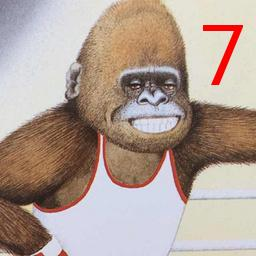
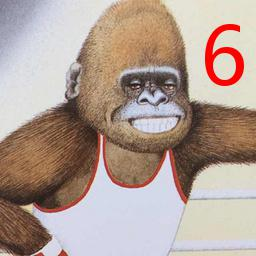
Source with comments

Changed region(s): [[0.7812, 0.0938, 0.9688, 0.375]]

diff --git a/lulujianjie/0000/0000.py b/lulujianjie/0000/0000.py
@@ -1,17 +1,17 @@
-from PIL import Image,ImageDraw,ImageFont
+from PIL import Image, ImageDraw, ImageFont
 
-def addNum(filePath):
-    img = Image.open(filePath)
-    size = img.size
-    fontSize = size[1] / 4
-    draw = ImageDraw.Draw(img)
-    
-    ttFont = ImageFont.truetype("symbol.ttf", fontSize)
-    draw.text((size[0]-fontSize, 0), "6",(256,0,0), font=ttFont)
-    del draw
-    img.save('./result.jpg')
-    img.show()
+im = Image.open('image.jpg')
+w,h = im.size
+font_size = h/4
+
+draw = ImageDraw.Draw(im)
+fnt = ImageFont.truetype ("Arial.ttf",font_size)
+
+text_w,text_h = draw.textsize("8",font=fnt) # 给定文字message，返回所占像素(width,height)
+
+draw.text((w-text_w,0), "8", fill=(255,0,0), font=fnt)#图片宽度减去字体宽度、要写的字符、颜色、字体
 
 
-if __name__ == '__main__':
-    addNum("image.jpg")
+im.save('image_1.jpg')
+
+#reference http://www.cnblogs.com/wei-li/archive/2012/04/19/2456725.html
